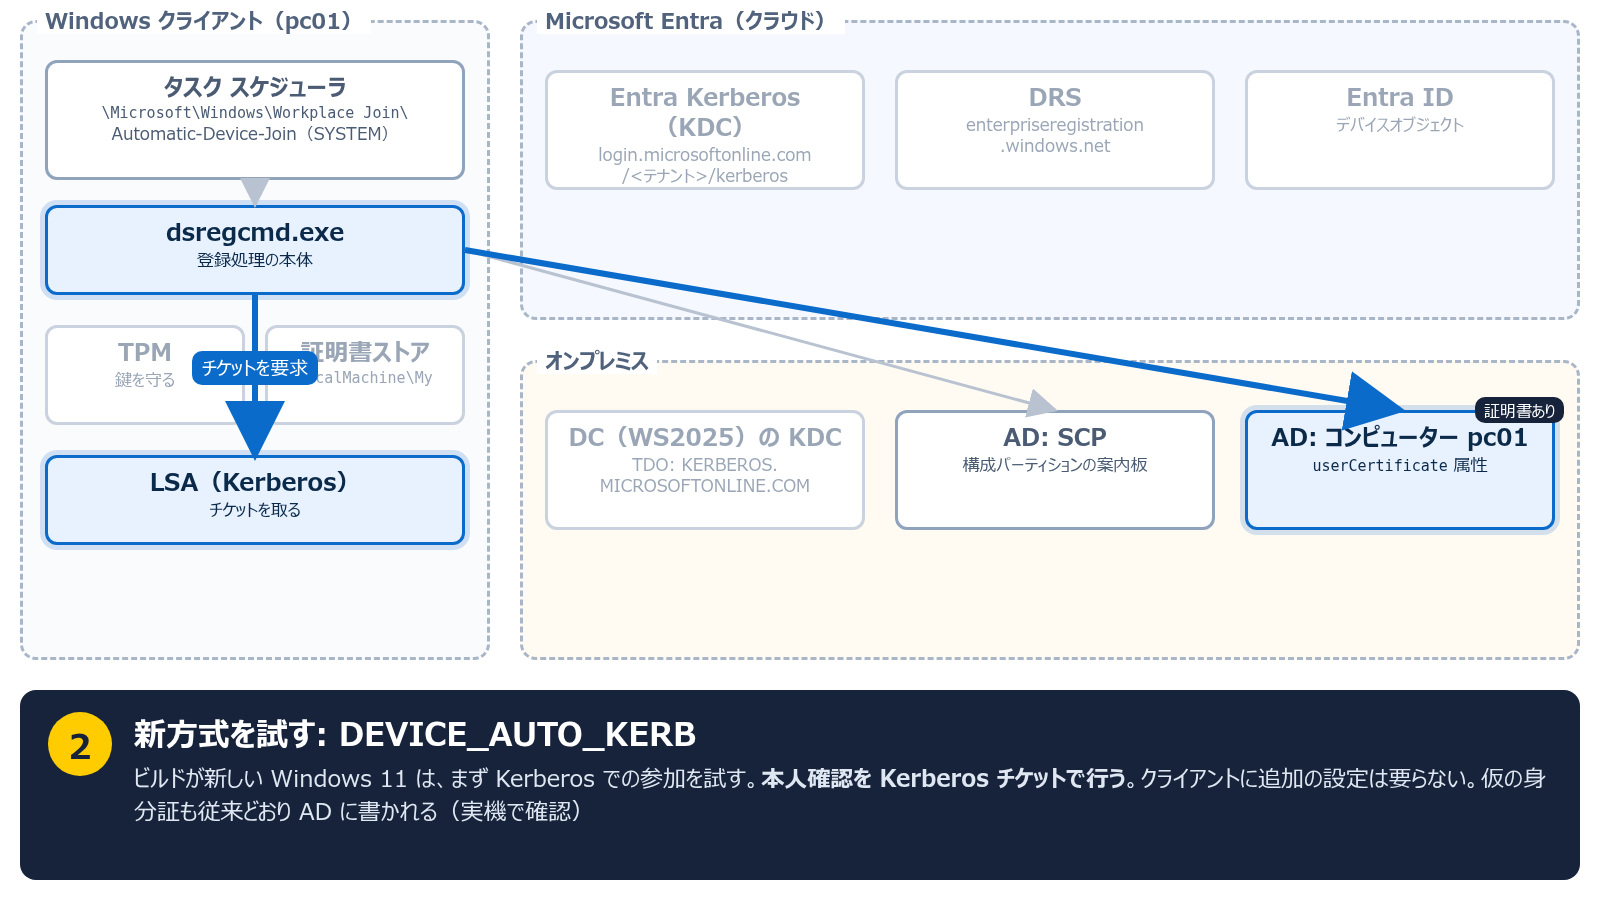
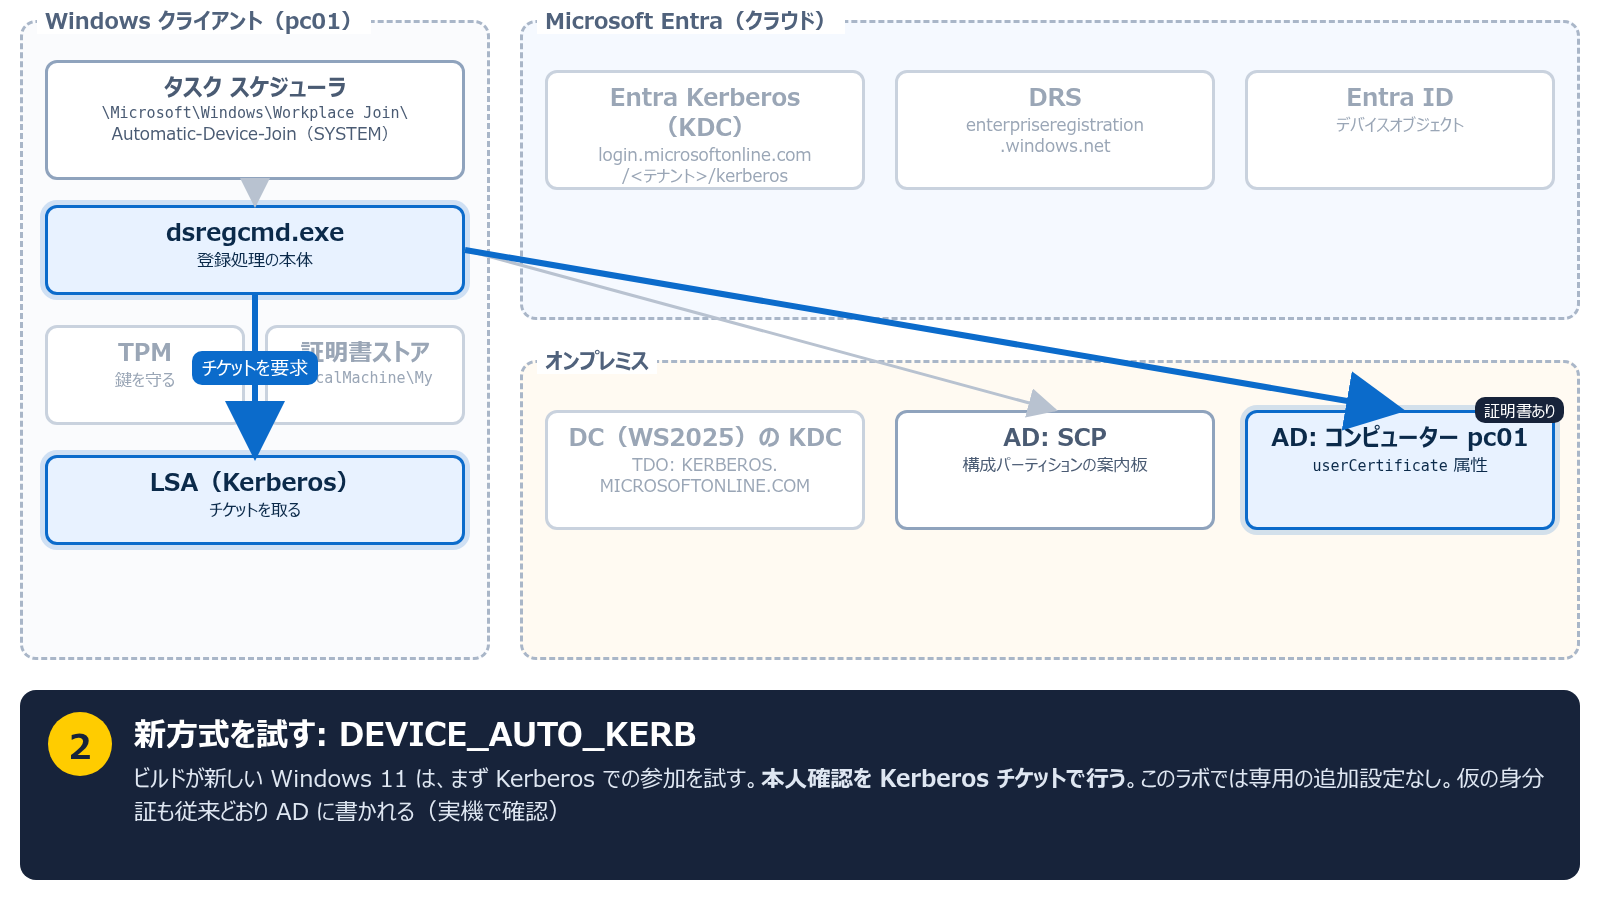
fix: clarify HCCJP 79 sync claims and repeatable demo steps (#74)

Changed region(s): [[0.0938, 0.8711, 0.375, 0.9333], [0.7188, 0.84, 0.9688, 0.9022]]

diff --git a/HCCJP_79/session/lab.html b/HCCJP_79/session/lab.html
@@ -4,7 +4,7 @@
 <div class="box onp" style="left:70px;top:170px;width:820px;height:300px;text-align:left"><b>dc01（Windows Server 2025 / 26100.33650）</b>・AD DS / DNS<br>・Cloud Sync エージェント（ユーザー同期の担当）<br>・TDO: KERBEROS.MICROSOFTONLINE.COM（受信の信頼）<br>・SCP: テナントの案内板<br>・krbtgt_AzureAD / AzureADKerberos（ユーザー認証の仕組み用）</div>
 <div class="box" style="left:70px;top:520px;width:390px;height:170px"><b>pc01</b>Windows 11 26200.9711<br>vTPM / ドメイン参加</div>
 <div class="box" style="left:500px;top:520px;width:390px;height:170px"><b>pc02</b>Windows 11 26200.9711<br>vTPM / ドメイン参加</div>
-<div class="box cloud" style="left:1040px;top:170px;width:490px;height:210px"><b>Cloud Sync 構成</b>ユーザーとグループだけ同期<br>デバイスは同期しない<br>同期の有効化が TDO の前提</div>
+<div class="box cloud" style="left:1040px;top:170px;width:490px;height:210px"><b>Cloud Sync 構成</b>このラボはユーザー同期<br>デバイス同期は未構成<br>同期の有効化が TDO の前提</div>
 <div class="box cloud ok" style="left:1040px;top:430px;width:490px;height:260px"><b>Device Registration Service</b>SPN: adrs/enterpriseregistration<br>.windows.net<br>タグ: KerberosPolicy:<br>ExchangeForJwt</div>
 <div class="note" style="left:70px;top:730px;color:#c62828">Entra Connect Sync は入れていない<br><span style="color:#50627c;font-size:22px">PC の TPM は Hyper-V の仮想 TPM。鍵を守るのは物理チップではなくホスト</span></div>
 </body></html>

diff --git a/HCCJP_79/session/frames/gen.py b/HCCJP_79/session/frames/gen.py
@@ -122,13 +122,13 @@ NEW = [
     {"n": "0", "title": "新しい方式の登場人物", "desc": "同期サーバーの代わりに、<b>WS2025 の DC の KDC</b> と <b>Entra の Kerberos</b> が登場する。PC 側の入口は同じタスク スケジューラ", "lit": []},
     {"n": "1", "title": "タスクが起動し、SCP を読む", "desc": "ここまでは従来と同じ。<code>Automatic-Device-Join</code> が <code>dsregcmd.exe</code> を動かし、SCP から登録先のテナントを知る",
      "lit": ["task", "dsreg", "scp"], "arrows": [("task", "b", "dsreg", "t"), ("dsreg", "r", "scp", "t", "LDAP で読む")]},
-    {"n": "2", "title": "新方式を試す: DEVICE_AUTO_KERB", "desc": "ビルドが新しい Windows 11 は、まず Kerberos での参加を試す。<b>本人確認を Kerberos チケットで行う</b>。クライアントに追加の設定は要らない。仮の身分証も従来どおり AD に書かれる（実機で確認）",
+    {"n": "2", "title": "新方式を試す: DEVICE_AUTO_KERB", "desc": "ビルドが新しい Windows 11 は、まず Kerberos での参加を試す。<b>本人確認を Kerberos チケットで行う</b>。このラボでは専用の追加設定なし。仮の身分証も従来どおり AD に書かれる（実機で確認）",
      "lit": ["dsreg", "lsa", "comp"], "badge": {"comp": "証明書あり"}, "arrows": [("dsreg", "b", "lsa", "t", "チケットを要求"), ("dsreg", "r", "comp", "t")]},
     {"n": "3", "title": "DC から TGT と「紹介状」をもらう", "desc": "PC のコンピューター アカウントで DC から TGT を取り、<b>TDO があるので</b> Entra 宛ての紹介チケット <code>krbtgt/KERBEROS.MICROSOFTONLINE.COM</code> ももらう",
      "lit": ["lsa", "kdc"], "badge": {"kdc": "紹介状を発行"}, "arrows": [("lsa", "r", "kdc", "l", "Kerberos")]},
     {"n": "4", "title": "Entra の KDC からチケットをもらう", "desc": "紹介状を HTTPS で Entra の Kerberos に出し、<b>DRS 宛てのサービス チケット</b> <code>adrs/enterpriseregistration.windows.net</code> をもらう",
      "lit": ["lsa", "ekdc"], "good": ["ekdc"], "arrows": [("lsa", "r", "ekdc", "b", "KDC プロキシ（HTTPS）")]},
-    {"n": "5", "title": "チケットを身分証にして DRS に登録", "desc": "チケットを DRS に出す。DRS はタグ <code>KerberosPolicy:ExchangeForJwt</code> によってチケットを受け付け、Entra にデバイスがいなくても PC を確認できる",
+    {"n": "5", "title": "チケットを身分証にして DRS に登録", "desc": "<code>KerberosPolicy:ExchangeForJwt</code> を構成した認証・交換の経路を使い、DRS に登録する。デバイス情報の事前同期を待たずに本人確認できる（内部APIの全順序は省略）",
      "lit": ["dsreg", "drs", "tpm"], "arrows": [("dsreg", "b", "tpm", "r", "鍵"), ("dsreg", "r", "drs", "b", "チケット＋登録の要求")]},
     {"n": "6", "title": "その場で完了", "desc": "DRS がデバイスを作ってデバイス証明書を返す。<b>同期を待つ工程が無い</b>。デモ環境では 16〜18 秒で終わった",
      "lit": ["drs", "store", "entra"], "good": ["store", "entra"], "badge": {"store": "デバイス証明書", "entra": "pc01（登録済み）"}, "arrows": [("drs", "r", "entra", "l", "作成"), ("drs", "b", "store", "r", "証明書を返す")]},
